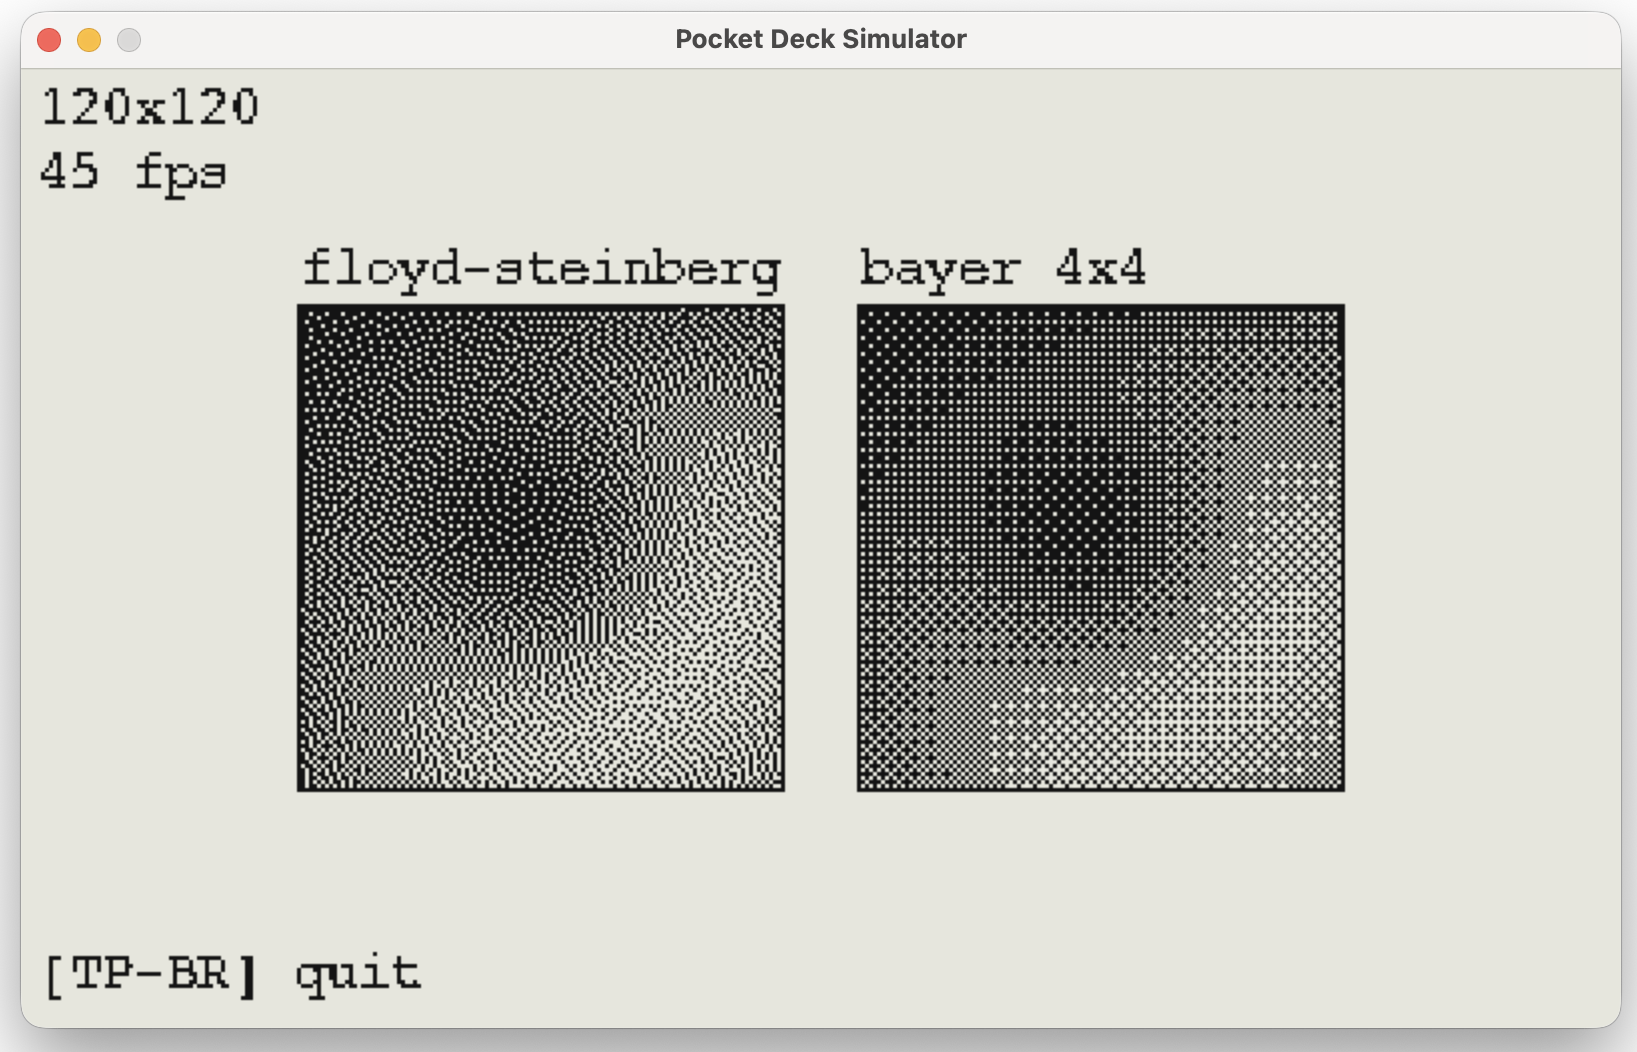
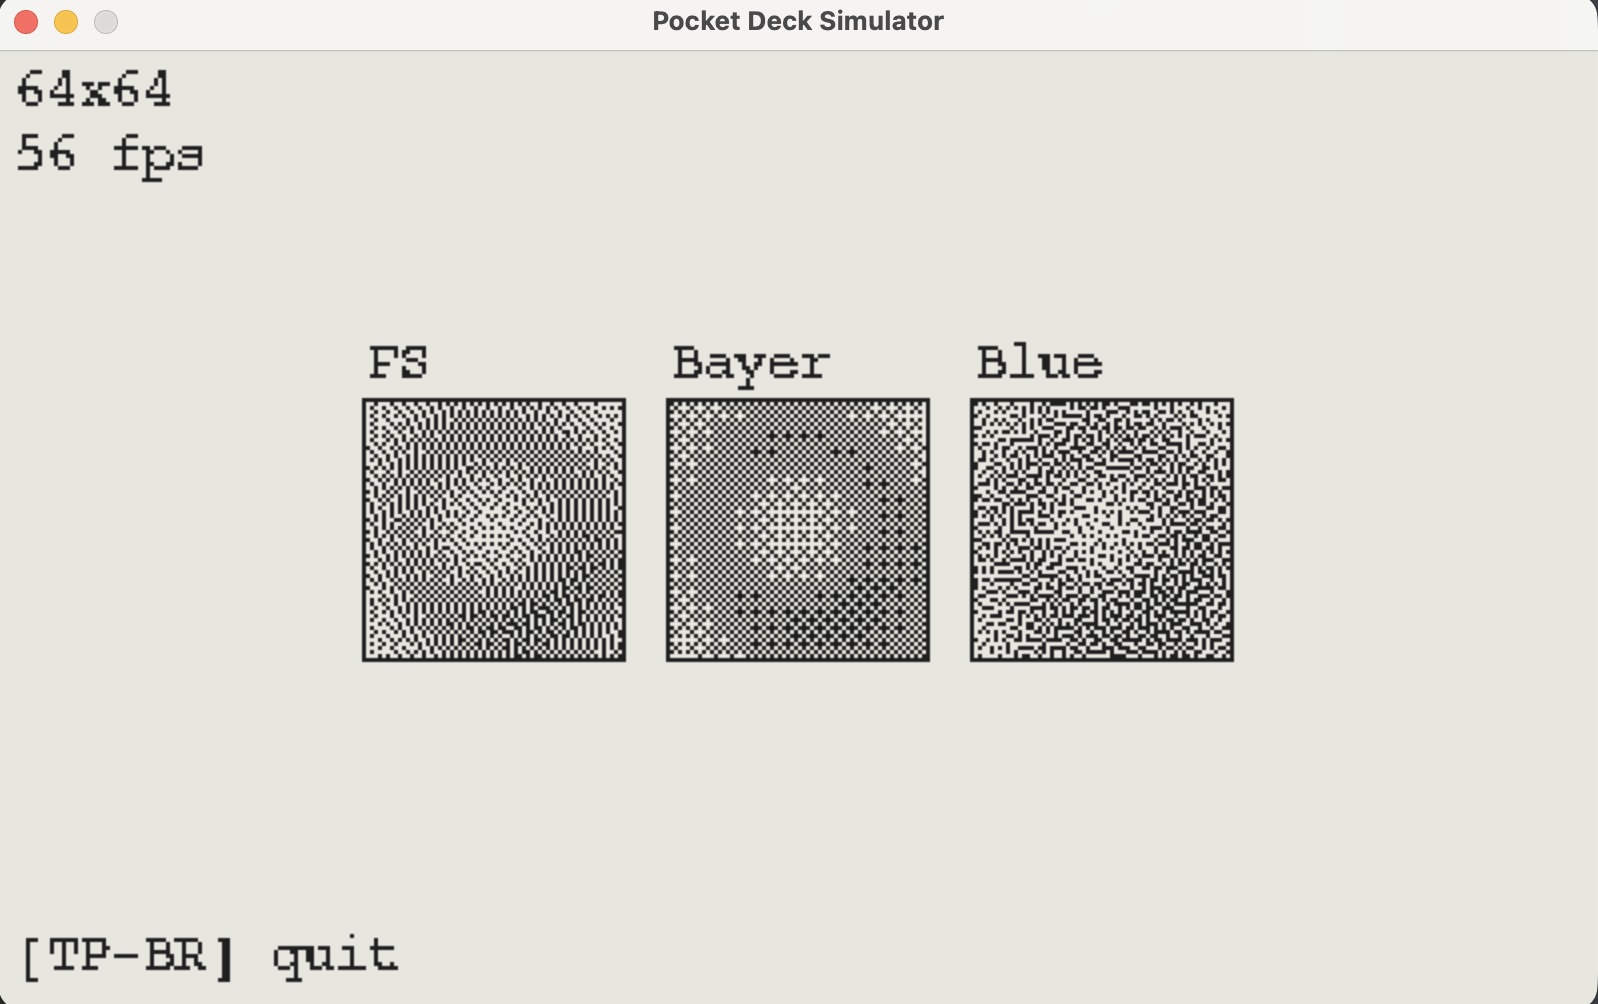
dither-plasma: add CHANGELOG and bump v0.4.0
Add a full CHANGELOG.md (Keep a Changelog format) documenting v0.4.0 (and prior releases).

- Introduce __version__ = "0.4.0" in dither.py as the single source of truth.
- Update top-level README to advertise dither-plasma 0.4.0 and include a Lissajous demo image; update dither-plasma/README.md with versioning guidance.
- Add doc/lissajous.png and update doc/dither-compare.png (binary asset change).

These changes record the new features (effects, Lissajous/trail fields, bluenoise, etc.) and ship documentation for the release.

diff --git a/dither-plasma/dither.py b/dither-plasma/dither.py
@@ -14,6 +14,12 @@
 #   gray = bytearray(w * h)   # fill with 0..255 intensity values
 #   draw_gray_rect(v, 40, 40, w, h, gray, mode="fs")
 
+# Package version — single source of truth for the whole collection
+# (dither + fields + effects + bluenoise_tile). Bump on every release
+# per CHANGELOG.md. Other modules import this if they need to display
+# or log it.
+__version__ = "0.4.0"
+
 # 4x4 Bayer ordered dither matrix (threshold values 0..255).
 # Same matrix used in pngreader.py so results are consistent.
 _BAYER = bytes([

diff --git a/dither-plasma/CHANGELOG.md b/dither-plasma/CHANGELOG.md
@@ -1,0 +1,98 @@
+# Changelog
+
+All notable changes to the pocketdeck_dither package are documented here.
+
+The format follows [Keep a Changelog](https://keepachangelog.com/en/1.1.0/),
+and the project adheres to [Semantic Versioning](https://semver.org/spec/v2.0.0.html):
+MAJOR for breaking API changes, MINOR for backward-compatible new features,
+PATCH for backward-compatible bug fixes.
+
+The single source of truth for the current version is `__version__` in
+`lib/dither.py`. Bump it together with a new section in this file when
+releasing.
+
+
+## [Unreleased]
+
+_Nothing yet._
+
+
+## [0.4.0] — 2026-05-11
+
+### Added
+- `effects.py` module with composable in-place transforms on grayscale
+  buffers: `fade` (linear and exponential), `splat_point`, `splat_line`,
+  `threshold`, `composite`. Designed as an optional pipeline stage
+  between field generators and the dither layer.
+- `Lissajous` curve sampler in `fields.py`. Parametric curve with seven
+  built-in presets, slow per-frame drift, and `snap_period`-driven
+  preset transitions.
+- `TrailField` in `fields.py`. Stateful comet-trail field that composes
+  `effects.fade` and `effects.splat_line` to draw decaying curves.
+- `lissajous_demo.py`. Lissajous trail demo with mode/curve/fade cycling.
+
+### Changed
+- `fields.py` module docstring updated to distinguish stateless fields
+  (Plasma, Metaballs, Tunnel) from stateful fields (TrailField).
+- README expanded with a pipeline diagram and module list reflecting
+  the new effects layer.
+
+
+## [0.3.0] — 2026-05-11
+
+### Added
+- Blue noise dithering. `_blue_dither` viper kernel in `dither.py`,
+  with matching CPython fallback.
+- `blue_dither_to_xbm()` public function with lazy tile loading.
+- `mode="blue"` branch in the `dither_to_xbm` dispatcher.
+- `bluenoise_tile.py` — 64×64 CC0/public-domain threshold tile,
+  generated locally by void-and-cluster (Ulichney 1993).
+- `tools/generate_bluenoise.py` — the generator script. Run on host
+  to regenerate the tile with different parameters.
+- `dither_compare.py` upgraded to a 3-panel layout (FS / Bayer / Blue).
+
+### Changed
+- `plasma_demo.py` and `fields_demo.py` space-key behavior is now a
+  3-way cycle (FS → Bayer → Blue → FS) instead of a 2-way toggle.
+- Mode handling factored into a `MODES` tuple plus `_next_mode()` helper
+  for clean extensibility.
+- `dither_compare.py` default panel size reduced from 80 to 64 to
+  comfortably fit three panels; `MAX_SIZE` clamp adjusted to 112.
+
+
+## [0.2.0] — 2026-05-11
+
+### Added
+- `fields_demo.py` gallery. Cycle through Plasma / Metaballs / Tunnel
+  with arrow keys; toggle dither mode with space.
+- Args support on demos: pass field size and initial dither mode
+  (`r plasma_demo 120 bayer`).
+
+### Fixed
+- `_fs_row` viper-vs-CPython mismatch. The previous `try/except`
+  fallback only caught import-time errors; the shim's pass-through
+  viper decorator succeeded at import but produced runtime
+  `ValueError` when writing 16-bit values via `ptr16` (which is
+  a byte-indexing identity function on CPython).
+- Replaced exception-based fallback with explicit platform detection
+  via `sys.implementation.name`. CPython uses `array.array('h', ...)`
+  for error buffers; MicroPython uses bytearrays viewed as `ptr16`.
+
+
+## [0.1.0] — 2026-05-09
+
+### Added
+- Initial package: `dither.py` with Floyd-Steinberg and Bayer dithering,
+  `fields.py` with Plasma / Metaballs / Tunnel field generators.
+- Two demo apps: `plasma_demo.py` (animated plasma with dither toggle)
+  and `dither_compare.py` (FS vs Bayer side-by-side).
+- Pure-MicroPython implementation; viper acceleration on device,
+  CPython fallback for shim compatibility.
+- README with module overview, field-size guidance, and design notes.
+
+
+[Unreleased]: #unreleased
+[0.4.0]: #040--2026-05-11
+[0.3.0]: #030--2026-05-11
+[0.2.0]: #020--2026-05-11
+[0.1.0]: #010--2026-05-09

diff --git a/dither-plasma/README.md b/dither-plasma/README.md
@@ -197,3 +197,21 @@ better than Bayer).
 # Acknowledgements
 
 * AI-assisted development using Anthropic Claude Opus 4.7.
+
+## Versioning
+
+The current version is declared in one place: `__version__` in
+`lib/dither.py`. Apps can `from dither import __version__` if they want
+to display or log it.
+
+The project uses [Semantic Versioning](https://semver.org/):
+
+- **MAJOR** — breaking changes to the public API (function signatures,
+  module names, behavior contracts)
+- **MINOR** — new features that don't break existing callers (new dither
+  modes, new field types, new effects)
+- **PATCH** — bug fixes that don't change behavior for correct callers
+
+When making a release, bump `__version__` in `dither.py` and add a new
+section to `CHANGELOG.md` describing what changed. See `CHANGELOG.md`
+for the historical record and the format to follow.

diff --git a/README.md b/README.md
@@ -1,13 +1,15 @@
 # pd-proj
 Various projects for PocketDeck
 
-* [dither-plasma](dither-plasma) shows off a dithering algorithm and metaball-like plasma
+* [dither-plasma](dither-plasma) - 0.4.0 - shows off a dithering algorithm and metaball-like plasma
   * dither:
   ![dither_compare](doc/dither-compare.png)
   * tunnel:
   ![tunnel effect](doc/tunnel.png)
   * metaballs:
   ![metaballs](doc/metaballs.png)
+  * lissajous:
+  ![lissajous](doc/lissajous.png)
 
 
 